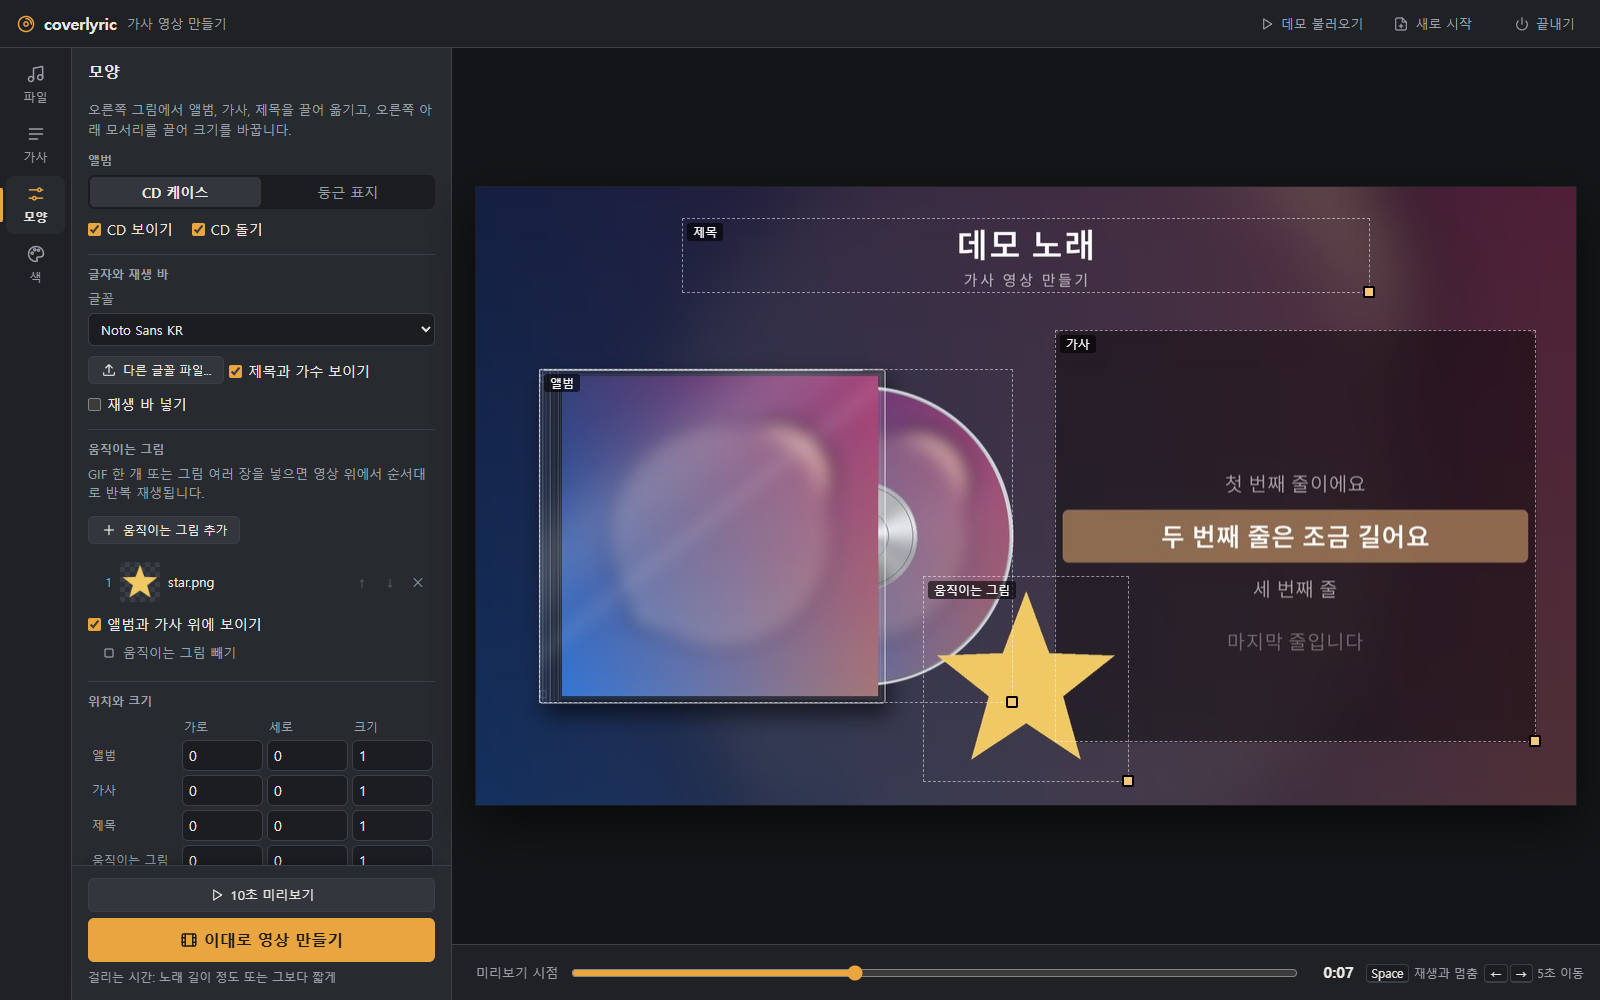
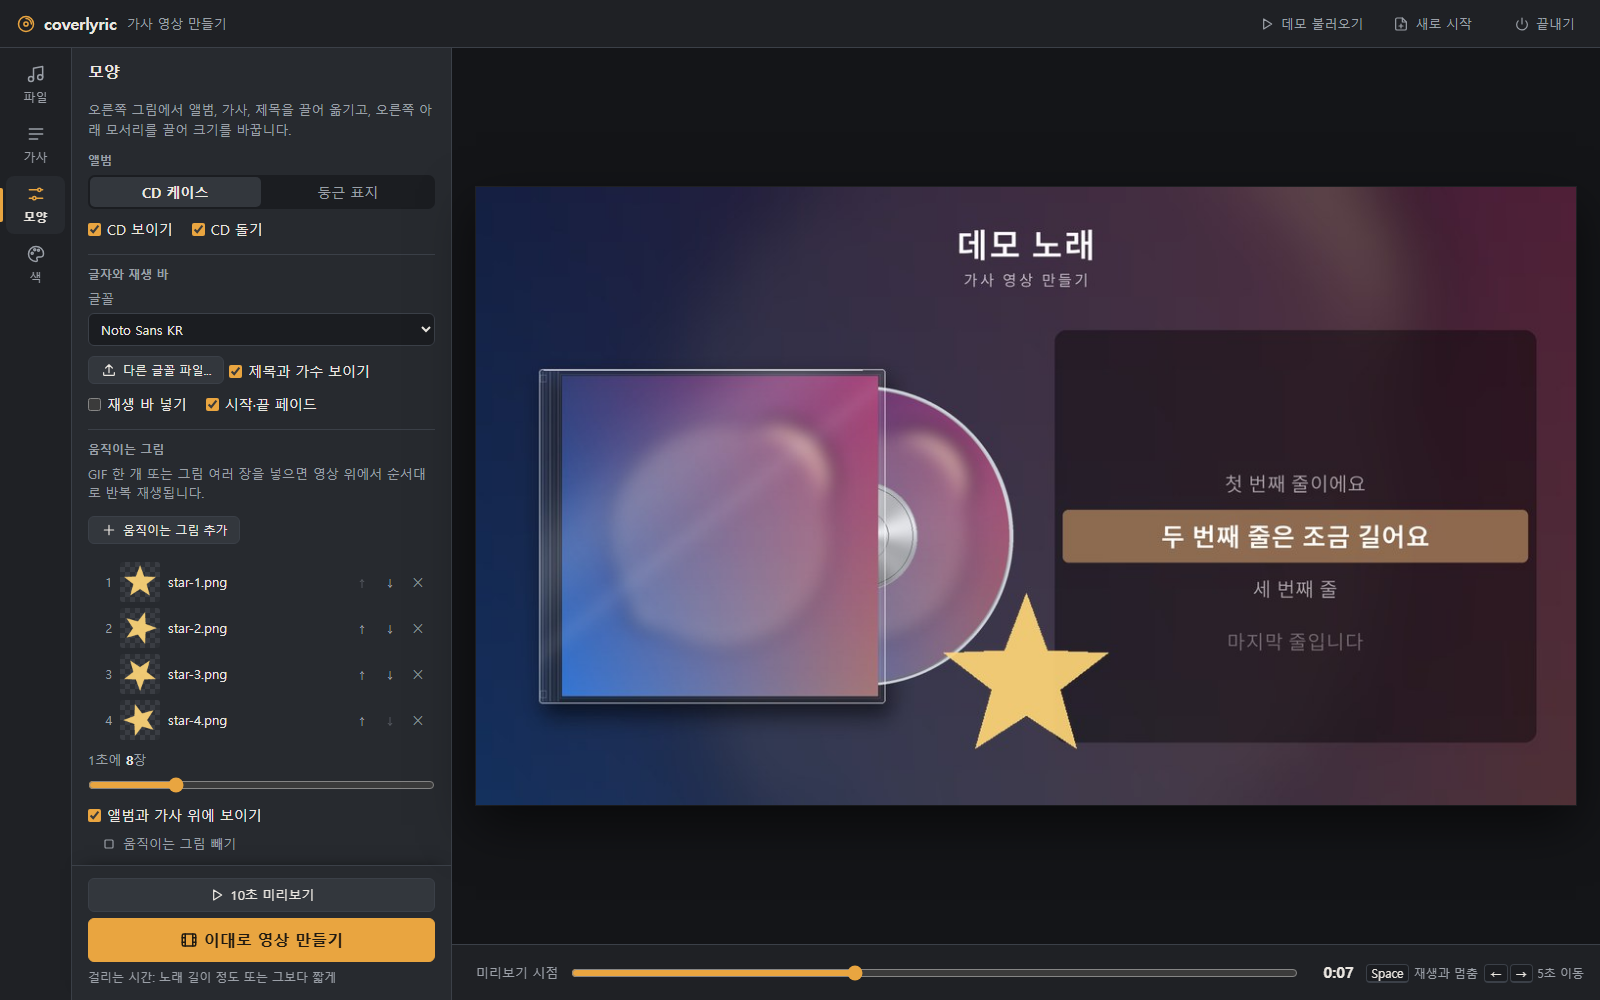
docs: guide line for the start and end fade; look screenshot

diff --git a/docs/guide.md b/docs/guide.md
@@ -97,6 +97,8 @@
   재생됩니다. 목록의 ↑ ↓ 로 순서를 바꾸고 ✕ 로 빼며, **1초에 N장**으로 빠르기를 정합니다.
   **앨범과 가사 위에 보이기**를 끄면 그 아래에 그려집니다.
 - **제목과 가수 보이기**, **재생 바 넣기:** 켜기/끄기.
+- **시작·끝 페이드:** 영상이 검은 화면에서 0.5초 동안 나타나고, 끝 1.5초 동안 검은 화면으로
+  사라집니다. 소리도 같이 커지고 작아집니다. 기본으로 켜져 있습니다.
 - **미리보기 시점:** 그림 아래 막대로 장면 시간을 고릅니다. 노래를 재생하면 미리보기가 따라갑니다.
 
 ## 영상 만들기

diff --git a/docs/guide.en.md b/docs/guide.en.md
@@ -100,6 +100,8 @@ are in the **색** group, the rest in **모양**.
   Reorder with ↑ ↓, remove with ✕, set the speed with **1초에 N장** (frames per second). Turn off
   **앨범과 가사 위에 보이기** to draw it below them.
 - **제목과 가수 보이기**, **재생 바 넣기:** title and progress bar on or off.
+- **시작·끝 페이드** (fade in and out): the video fades in from black over 0.5 s and out to black
+  over the last 1.5 s, with the sound. On by default.
 - **Preview time:** the slider under the preview picks the frame; while the song plays the preview
   follows it.
 
